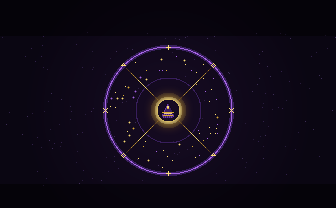
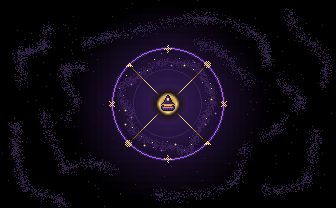
integrated and centered the title screen

diff --git a/src/Game.java b/src/Game.java
@@ -39,7 +39,7 @@ public class Game {
     /*
         Camera stuff
          */
-    private double cameraX = 0.0;
+    private double cameraX = (double) -Main.UI_TILE_WIDTH / 2;
     private double cameraY = 0.0;
     private static final double camera_follow_speed = 1.0 - Math.pow(.25, 1.0 / TICKS_PER_SECOND); // 0 means it will not move at all, 1 means it will follow the player perfectly
 
@@ -197,7 +197,7 @@ public class Game {
         this.keyManager = keyManager;
         this.mouseManager = mouseManager;
 
-        add_entity(get_player(), new Field.FieldPosition((int) cameraX, (int) cameraY)); //adding the player
+        add_entity(get_player(), new Field.FieldPosition(0, 0)); //adding the player
         //TODO: remove this code eventually, it only for testing
         add_entity(GridEntity.enemy(GridEntity.EnemyType.TANK), new Field.FieldPosition(5, 1));
         //projectiles.add(new Projectile(true, Sprites.Ball, -5, 0.5, 0, 2.0/TICKS_PER_SECOND, 100, 0.5));

diff --git a/src/Main.java b/src/Main.java
@@ -105,7 +105,11 @@ public class Main extends Canvas {
     //Title screen should be 336x202 in terms of texture size
     public void paint_title_screen(Graphics2D g2D){
         g2D.drawImage(Sprites.TitleScreen, 0, 0, SCREEN_WIDTH + UI_WIDTH, SCREEN_HEIGHT, null);
-        GameFont.draw(g2D, "Press any key to start", 0, 0, Color.WHITE);
+        String title = "Whispers of the Arcane";
+        GameFont.draw(g2D, title, (SCREEN_TILE_WIDTH + UI_TILE_WIDTH-GameFont.get_width(title))/2, 0.5, Color.WHITE);
+        String info = "Press any key to start";
+        GameFont.draw(g2D, info, (SCREEN_TILE_WIDTH + UI_TILE_WIDTH-GameFont.get_width(title))/2, SCREEN_TILE_HEIGHT - 1.5, Color.WHITE);
+        //GameFont.draw(g2D, "Press any key to start", 0, 0, Color.WHITE);
     }
 
     public void render() {

diff --git a/src/Sprites.java b/src/Sprites.java
@@ -15,7 +15,7 @@ public abstract class Sprites {
     }
 
     //card sprites are handled inside the Card enum
-    public static final BufferedImage TitleScreen = loadImage("./src/graphics/title_screen.png");
+    public static final BufferedImage TitleScreen = loadImage("./src/graphics/titlescreen.png");
     public static final BufferedImage Player = loadImage("./src/graphics/player.png");
     public static final BufferedImage Enemy = loadImage("./src/graphics/smile_pink.png");
     public static final BufferedImage LargeEnemy = loadImage("./src/graphics/large_frown.png");
